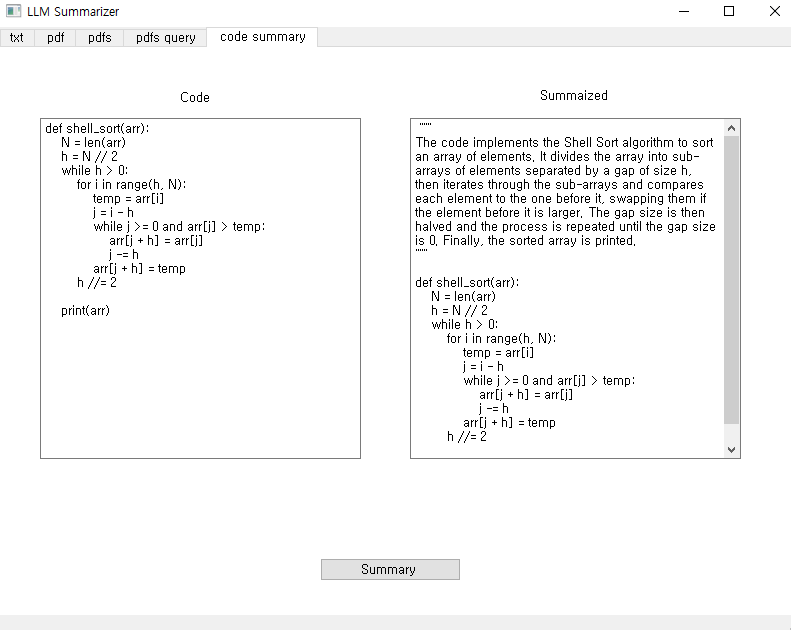
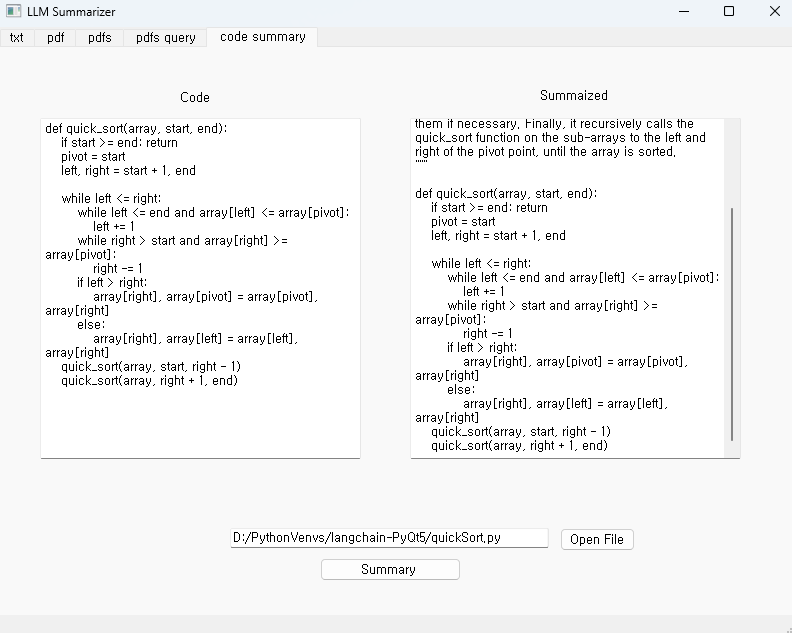
Update Program

diff --git a/PyQt/main.py b/PyQt/main.py
@@ -178,6 +178,15 @@ class Ui_MainWindow(QWidget):
         self.label_9 = QtWidgets.QLabel(self.tab_5)
         self.label_9.setGeometry(QtCore.QRect(540, 40, 71, 16))
         self.label_9.setObjectName("label_9")
+        self.lineEdit_5 = QtWidgets.QLineEdit(self.tab_5)
+        self.lineEdit_5.setEnabled(True)
+        self.lineEdit_5.setGeometry(QtCore.QRect(230, 480, 319, 20))
+        self.lineEdit_5.setReadOnly(True)
+        self.lineEdit_5.setObjectName("lineEdit_5")
+        self.OpenFile5 = QtWidgets.QPushButton(self.tab_5)
+        self.OpenFile5.setGeometry(QtCore.QRect(560, 480, 75, 23))
+        self.OpenFile5.setObjectName("OpenFile5")
+        self.OpenFile5.clicked.connect(self.openFile5)
         self.Summary4 = QtWidgets.QPushButton(self.tab_5)
         self.Summary4.setGeometry(QtCore.QRect(320, 510, 141, 23))
         self.Summary4.setObjectName("Summary4")
@@ -246,6 +255,7 @@ class Ui_MainWindow(QWidget):
         self.QTabsWidget.setTabText(self.QTabsWidget.indexOf(self.tab_4), _translate("MainWindow", "pdfs query"))
         self.label_8.setText(_translate("MainWindow", "Code"))
         self.label_9.setText(_translate("MainWindow", "Summaized"))
+        self.OpenFile5.setText(_translate("MainWindow","Open File"))
         self.Summary4.setText(_translate("MainWindow", "Summary "))
         self.QTabsWidget.setTabText(self.QTabsWidget.indexOf(self.tab_5), _translate("MainWindow", "code summary"))
 
@@ -255,28 +265,47 @@ class Ui_MainWindow(QWidget):
 
     # txt파일 열기 함수
     def openFile(self) -> None:
-        fname=QFileDialog.getOpenFileName(self)
-        self.lineEdit.setText(fname[0])
-        f=open(fname[0],'r',encoding='UTF-8')
-        with f:
-            data=f.read()
-            self.RawFIleField.setText(data)
+        try:
+            fname=QFileDialog.getOpenFileName(self,'Open File','./','Text files (*.txt)')
+            self.lineEdit.setText(fname[0])
+            f=open(fname[0],'r',encoding='UTF-8')
+            with f:
+                data=f.read()
+                self.RawFIleField.setText(data)
+        except FileNotFoundError as f:
+            pass
 
     # pdf파일 열기 함수
     def openFile2(self) -> None:
-        fname=QFileDialog.getOpenFileName(self)
-        self.lineEdit_2.setText(fname[0])
-        f=open(fname[0],'r',encoding='UTF-8')
+        try:    
+            fname=QFileDialog.getOpenFileName(self,'Open File','./','PDF files (*.pdf)')
+            self.lineEdit_2.setText(fname[0])
+            f=open(fname[0],'r',encoding='UTF-8')
+        except FileNotFoundError as f:
+            pass
 
     # pdf 폴더 열기 함수
     def openFolder3(self) -> None:
-        fname=QFileDialog.getExistingDirectory(self,"Select Directory")
+        fname=QFileDialog.getExistingDirectory(self,"Select Directory",'./')
         self.lineEdit_3.setText(fname)
     
     # pdf 폴더 열기 함수
     def openFolder4(self) -> None:
-        fname=QFileDialog.getExistingDirectory(self,"Select Directory")
+        fname=QFileDialog.getExistingDirectory(self,"Select Directory",'./')
         self.lineEdit_4.setText(fname)
+
+    # python 파일 열기 함수
+    def openFile5(self) -> None:
+        try:
+            fname=QFileDialog.getOpenFileName(self,'Open File','./','Python files (*.py)')
+            f=open(fname[0],'r',encoding='UTF-8')
+            with f:
+                data=f.read()
+                self.codeInputField.setText(data)
+            self.lineEdit_5.setText(fname[0])
+            
+        except FileNotFoundError as f:
+            pass
 
     ## File Summary
 

diff --git a/quickSort.py b/quickSort.py
@@ -1,0 +1,16 @@
+def quick_sort(array, start, end):
+    if start >= end: return 
+    pivot = start 
+    left, right = start + 1, end
+    
+    while left <= right:
+        while left <= end and array[left] <= array[pivot]:
+            left += 1
+        while right > start and array[right] >= array[pivot]:
+            right -= 1
+        if left > right: 
+            array[right], array[pivot] = array[pivot], array[right]
+        else: 
+            array[right], array[left] = array[left], array[right]
+    quick_sort(array, start, right - 1)
+    quick_sort(array, right + 1, end)

diff --git a/INFORMATION.md b/INFORMATION.md
@@ -45,5 +45,6 @@
 
 * code 요약 전, 후
     - code 필드에 code를 직접 작성하거나 copy & paste 하고 summary 버튼을 누르면 요약 실행
+    - openfile을 누른 후 python 파일을 선택하고 summary 버튼을 누르면 요약 실행
     <img src = "assets/4tab.png" width = "500" height="500">
     <img src = "assets/4tab done.png" width = "500" height="500">
